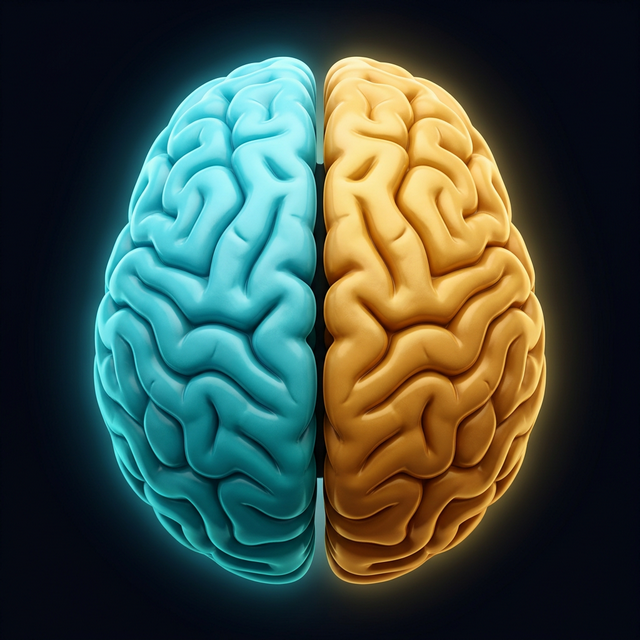
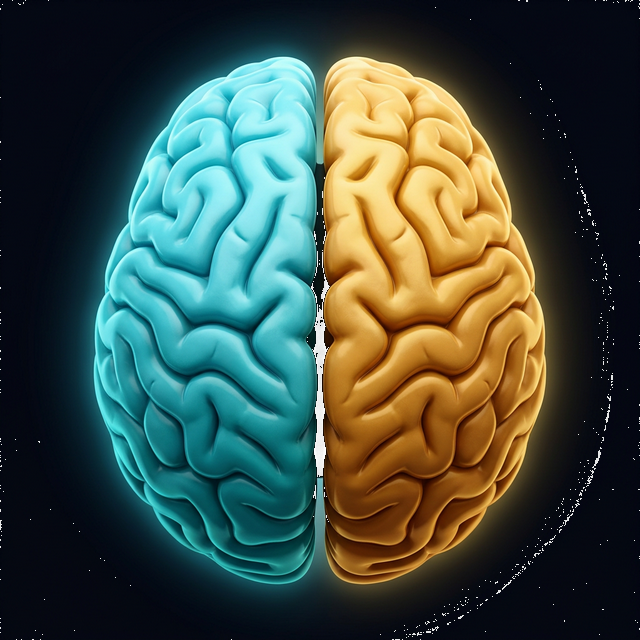
style(report): fix transparent PNGs for brain and shield and align bottom connectors

diff --git a/frontend/english-home-vite/src/routes/$locale/_globalLayout/_auth/app.report.tsx b/frontend/english-home-vite/src/routes/$locale/_globalLayout/_auth/app.report.tsx
@@ -101,7 +101,10 @@ function SkillNode({ icon, label, side, bendOffset = 0, width = 60 }: { icon: Re
                 <span className="font-bold tracking-wider uppercase">{label}</span>
             </div>
 
-            <ConnectorLine side={side} bendOffset={bendOffset} width={width} />
+            {/* Negative margin to pull the line tight against the badge edge */}
+            <div className={isLeft ? "-ml-1" : "-mr-1"}>
+                <ConnectorLine side={side} bendOffset={bendOffset} width={width} />
+            </div>
         </div>
     );
 }
@@ -227,7 +230,7 @@ function ReportPage() {
                                 <img
                                     src="/images/report/brain.png"
                                     alt="Brain"
-                                    className="w-[240px] lg:w-[340px] object-contain drop-shadow-[0_0_60px_rgba(251,191,36,0.18)] select-none opacity-95"
+                                    className="w-[240px] lg:w-[340px] object-contain drop-shadow-[0_0_60px_rgba(251,191,36,0.18)] select-none opacity-95 mix-blend-screen"
                                     draggable={false}
                                 />
                             </div>
@@ -393,7 +396,7 @@ function ReportPage() {
                         <img
                             src="/images/report/shield.png"
                             alt="Level Shield"
-                            className="w-[120px] lg:w-[150px] drop-shadow-[0_10px_20px_rgba(0,0,0,0.7)] select-none opacity-95"
+                            className="w-[120px] lg:w-[150px] drop-shadow-[0_10px_20px_rgba(0,0,0,0.7)] select-none opacity-95 mix-blend-screen"
                             style={{ filter: 'contrast(1.2)' }}
                             draggable={false}
                         />
